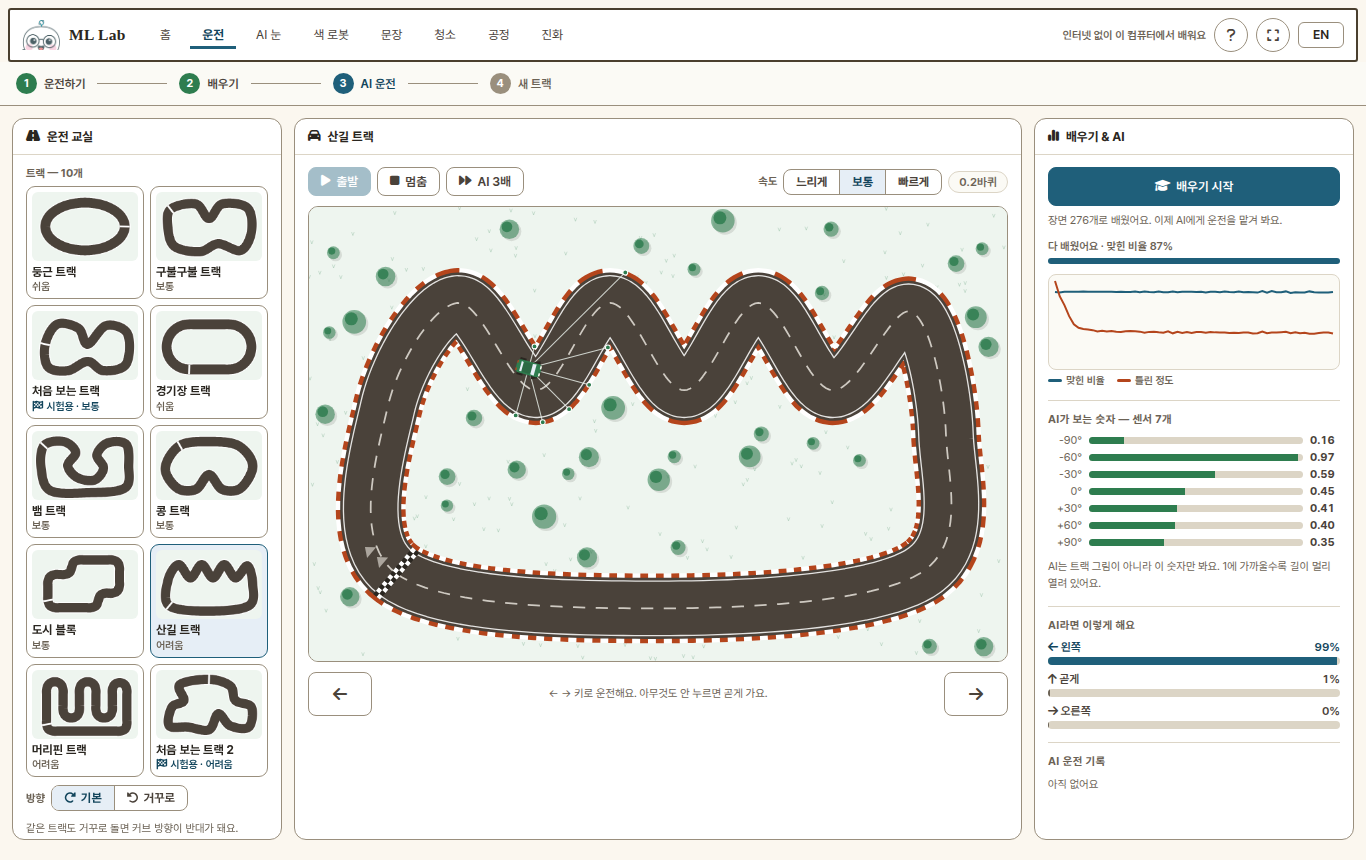
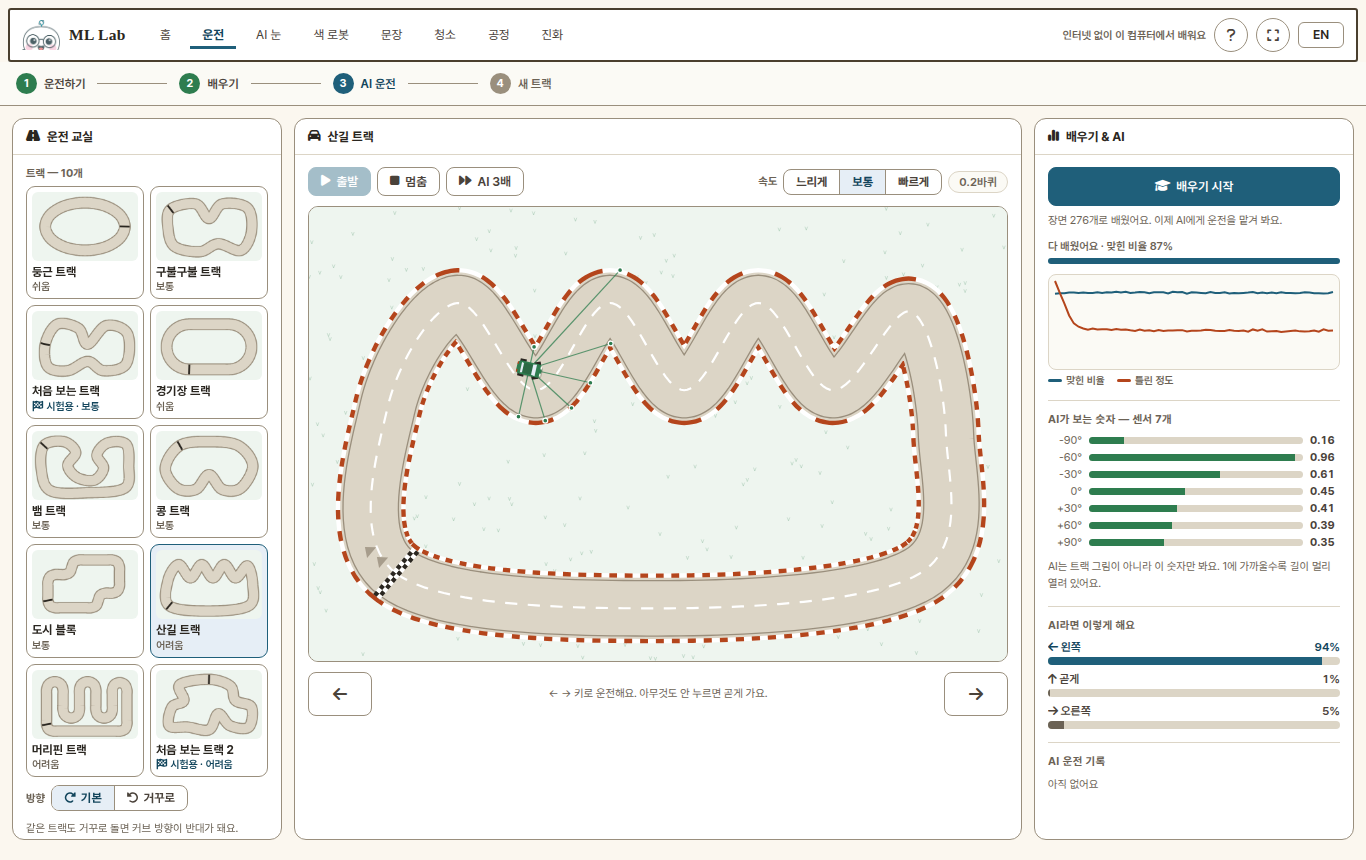
운전: 길을 옅은 회색으로, 나무(초록 동그라미) 빼기 — 차·센서 선이 잘 보이게
Claude-Session: https://claude.ai/code/session_014h77NB54n1ck2McG7DAqXV

diff --git a/acts/drive/page.js b/acts/drive/page.js
@@ -86,10 +86,10 @@ function drawThumb(c, def) {
   pts.forEach(([x, y], i) => i ? g.lineTo(x, y) : g.moveTo(x, y));
   g.closePath();
   g.lineJoin = 'round';
-  g.strokeStyle = css('--panel'); g.lineWidth = def.width + 14; g.stroke();
-  g.strokeStyle = css('--ink2'); g.lineWidth = def.width; g.stroke();
+  g.strokeStyle = css('--line'); g.lineWidth = def.width + 16; g.stroke();
+  g.strokeStyle = css('--line-soft'); g.lineWidth = def.width; g.stroke();
   const [x0, y0] = pts[0], th = Math.atan2(pts[1][1] - y0, pts[1][0] - x0);
-  g.strokeStyle = css('--panel'); g.lineWidth = 14;
+  g.strokeStyle = css('--ink'); g.lineWidth = 14;
   g.beginPath();
   g.moveTo(x0 - Math.sin(th) * def.width / 2, y0 + Math.cos(th) * def.width / 2);
   g.lineTo(x0 + Math.sin(th) * def.width / 2, y0 - Math.cos(th) * def.width / 2);
@@ -330,8 +330,8 @@ function refreshLive() {
 }
 
 // ── 그리기 ──────────────────────────────────────────────────
-// 색은 모두 디자인 토큰에서 가져온다: 잔디 --ok-soft, 나무 --ok, 아스팔트 --ink2,
-// 차선 --panel, 연석 --warn/--panel 줄무늬, 내 차 --acc, AI 차 --ok, 부딪힌 차 --warn.
+// 색은 모두 디자인 토큰에서 가져온다: 잔디 --ok-soft, 길 --line-soft(옅은 회색), 가장자리 선 --line,
+// 가운데 점선 --panel, 연석 --warn/--panel 줄무늬, 내 차 --acc, AI 차 --ok, 부딪힌 차 --warn.
 // 그림은 꾸밈일 뿐 — 길 판정은 track.js 의 마스크(폭 = def.width)만 쓴다.
 const cv = $('cv');
 let roadCache = null, scale = 1;
@@ -344,16 +344,6 @@ function sizeCanvas() {
   cv.width = Math.round(w * dpr); cv.height = Math.round(h * dpr);
   scale = cv.width / WORLD_W;
   roadCache = null;
-}
-
-// 중심선에서 가장 가까운 거리 (나무를 길에서 떨어뜨려 심을 때만 쓴다)
-function distToRoad(x, y) {
-  let d = Infinity;
-  for (let i = 0; i < track.n; i += 3) {
-    const [px, py] = track.pts[i];
-    d = Math.min(d, (px - x) ** 2 + (py - y) ** 2);
-  }
-  return Math.sqrt(d);
 }
 
 // 트랙은 바뀔 때만 따로 그려 두고, 매 장면에는 복사만 한다 (저사양 PC 배려)
@@ -382,32 +372,14 @@ function renderRoad() {
   // 연석: 흰 바탕 위에 빨간 줄무늬 → 길 양쪽에 빨강·흰색 띠
   path(); g.strokeStyle = css('--panel'); g.lineWidth = W + 10; g.stroke();
   path(); g.strokeStyle = css('--warn'); g.setLineDash([9, 9]); g.stroke(); g.setLineDash([]);
-  // 아스팔트
-  path(); g.strokeStyle = css('--ink2'); g.lineWidth = W; g.stroke();
-  // 가장자리 흰 선: 흰 띠를 그리고 가운데를 다시 아스팔트로 덮는다
-  path(); g.strokeStyle = css('--panel'); g.globalAlpha = 0.85; g.lineWidth = W - 6; g.stroke(); g.globalAlpha = 1;
-  path(); g.strokeStyle = css('--ink2'); g.lineWidth = W - 9; g.stroke();
+  // 길: 옅은 회색 — 진한 차(--acc)와 센서 선이 잘 보이게
+  path(); g.strokeStyle = css('--line-soft'); g.lineWidth = W; g.stroke();
+  // 가장자리 선: 회색 띠를 그리고 가운데를 다시 길 색으로 덮는다
+  path(); g.strokeStyle = css('--line'); g.lineWidth = W - 5; g.stroke();
+  path(); g.strokeStyle = css('--line-soft'); g.lineWidth = W - 8; g.stroke();
   // 가운데 점선
-  path(); g.strokeStyle = css('--paper'); g.globalAlpha = 0.75; g.lineWidth = 2; g.setLineDash([14, 12]); g.stroke();
-  g.setLineDash([]); g.globalAlpha = 1;
-
-  // 나무: 길에서 충분히 떨어진 곳에만
-  const trees = [];
-  for (let k = 0; k < 400 && trees.length < 34; k++) {
-    const x = 14 + rnd() * (WORLD_W - 28), y = 14 + rnd() * (WORLD_H - 28), r = 7 + rnd() * 7;
-    if (distToRoad(x, y) < hw + 10 + r) continue;
-    if (trees.some(t => (t.x - x) ** 2 + (t.y - y) ** 2 < (t.r + r + 4) ** 2)) continue;
-    trees.push({ x, y, r });
-  }
-  for (const t of trees) {
-    g.fillStyle = css('--ink'); g.globalAlpha = 0.12;
-    g.beginPath(); g.arc(t.x + 2.5, t.y + 2.5, t.r, 0, Math.PI * 2); g.fill();
-    g.fillStyle = css('--ok'); g.globalAlpha = 0.55;
-    g.beginPath(); g.arc(t.x, t.y, t.r, 0, Math.PI * 2); g.fill();
-    g.globalAlpha = 0.85;
-    g.beginPath(); g.arc(t.x - t.r * 0.25, t.y - t.r * 0.25, t.r * 0.55, 0, Math.PI * 2); g.fill();
-  }
-  g.globalAlpha = 1;
+  path(); g.strokeStyle = css('--panel'); g.lineWidth = 2.5; g.setLineDash([14, 12]); g.stroke();
+  g.setLineDash([]);
 
   // 출발선: 체크무늬 두 줄
   const [x0, y0] = track.pts[0], th = track.start.th;
@@ -420,7 +392,7 @@ function renderRoad() {
     }
   }
   // 달리는 방향 화살표 (출발선 바로 앞)
-  g.fillStyle = css('--paper'); g.globalAlpha = 0.55;
+  g.fillStyle = css('--line'); g.globalAlpha = 0.8;
   for (const ax of [22, 40]) {
     g.beginPath(); g.moveTo(ax + 7, 0); g.lineTo(ax - 3, -8); g.lineTo(ax - 3, 8); g.closePath(); g.fill();
   }
@@ -480,12 +452,12 @@ function draw() {
   g.setTransform(1, 0, 0, 1, 0, 0);
   g.drawImage(roadCache, 0, 0);
   g.setTransform(scale, 0, 0, scale, 0, 0);
-  // 센서 광선 — 어두운 길 위에서도 보이게 밝은 선 + 끝점
-  g.lineWidth = 1.2;
+  // 센서 광선 — 선 + 끝점
+  g.lineWidth = 1.4;
   lastSense.forEach((v, i) => {
     const a = car.th + RAY_DEG[i] * Math.PI / 180, r = v * RAY_MAX;
     const ex = car.x + Math.cos(a) * r, ey = car.y + Math.sin(a) * r;
-    g.strokeStyle = css('--ok-soft'); g.globalAlpha = 0.8;
+    g.strokeStyle = css('--ok'); g.globalAlpha = 0.75;
     g.beginPath(); g.moveTo(car.x, car.y); g.lineTo(ex, ey); g.stroke();
     g.globalAlpha = 1;
     g.fillStyle = css('--ok'); g.strokeStyle = css('--panel');

diff --git a/drive.html b/drive.html
@@ -136,6 +136,6 @@
 <script src="lib/nav.js?v=5"></script>
 <script src="lib/i18n.js?v=7"></script>
 <script src="lib/tour.js?v=5"></script>
-<script type="module" src="acts/drive/page.js?v=4"></script>
+<script type="module" src="acts/drive/page.js?v=5"></script>
 </body>
 </html>

diff --git a/DEVELOP.md b/DEVELOP.md
@@ -274,8 +274,9 @@ TF.js cpu 백엔드가 손으로 짠 JS 보다 약 13배 느렸다 (배치마다
 - **사람이 돌 수 있나** (반응 0.13~0.27초 · 키 최소 0.07~0.12초 가상 학생, 1바퀴, 시드 10개):
   보통(0.55배)에서 20코스 중 19코스 10/10, 산길 거꾸로만 7/10. 빠르게(1배)는 둥근·경기장·콩만 대체로 돌고
   나머지는 0~9/10 (예전 구불구불·처음 보는 트랙도 0.22초 반응이면 0/10) — 빠르게는 잘하는 학생용.
-- **그림**: 색은 모두 토큰 — 잔디 `--ok-soft`(풀 `--ok` 22%), 나무 `--ok`, 아스팔트 `--ink2`, 가장자리 선 `--panel`,
-  가운데 점선 `--paper`, 연석 `--warn`/`--panel` 줄무늬, 출발선 `--ink`/`--panel` 체크무늬.
+- **그림**: 색은 모두 토큰 — 잔디 `--ok-soft`(풀 `--ok` 22%), 길 `--line-soft`(옅은 회색), 가장자리 선 `--line`,
+  가운데 점선 `--panel`, 연석 `--warn`/`--panel` 줄무늬, 출발선 `--ink`/`--panel` 체크무늬, 센서 선 `--ok`.
+  처음엔 아스팔트를 `--ink2` 로 진하게 했는데 진한 차(`--acc`)가 잘 안 보여 옅은 회색으로 바꿨고, 나무(초록 동그라미)는 뺐다.
   차는 내 차 `--acc` · AI 차 `--ok` · 부딪힘 `--warn`, 바퀴 4개(앞바퀴는 고른 운전 쪽으로 꺾임) · 앞유리 · 전조등 · 미등.
   차는 판정 크기(24×13)의 1.2배로 그린다. 판정은 가운데·앞 9 두 점뿐이라 부딪힐 때 앞코가 연석에 조금 걸쳐 보인다.
   길·나무는 트랙이 바뀔 때만 오프스크린 캔버스에 그려 두고 매 장면 복사만 한다.
